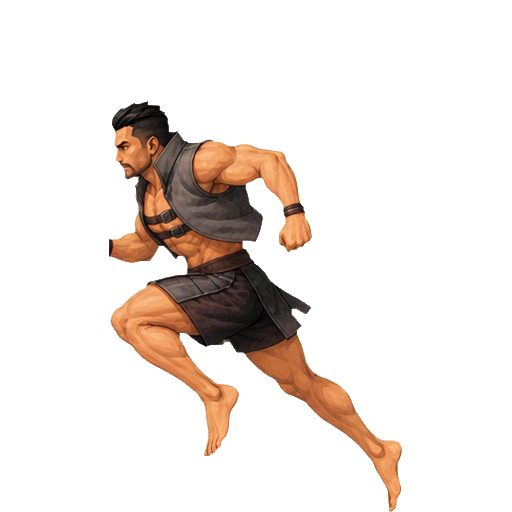
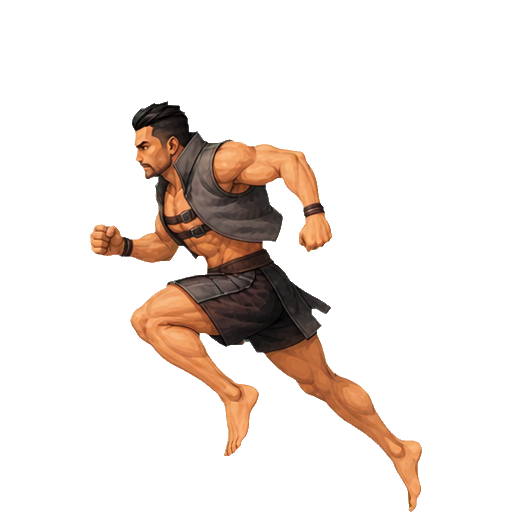
部分帧动画重新切图

Changed region(s): [[0.1562, 0.1875, 0.8438, 1.0]]

diff --git a/tools/recut_actor_common_m02_left.py b/tools/recut_actor_common_m02_left.py
@@ -1,0 +1,140 @@
+"""Recut the Actor Common M02 left-facing walk and sprint sheets by full pose.
+
+Unlike the original equal-cell splitter, this tool identifies the six complete
+alpha-connected character poses across each source sheet.  That prevents a limb
+which crosses a nominal cell boundary from being cut off or included in its
+neighbouring frame.
+"""
+
+from __future__ import annotations
+
+import hashlib
+import json
+import shutil
+from pathlib import Path
+
+import cv2
+import numpy as np
+from PIL import Image
+
+
+CHARACTER = "actor_common_m02"
+ROOT = Path("openspec/changes/produce-totem-art-assets/art/raw/characters") / CHARACTER
+ASSET_ROOT = Path("Assets/Game/Sprite/Actors/ActorCommonM02")
+FRAME_SIZE = 512
+ALPHA_THRESHOLD = 15
+SPECS = {"walk": 6, "sprint": 6}
+# The supplied sprint sheet has two small previous-pose residues attached to
+# its left edge. These rectangles are in their respective complete-pose crop
+# coordinates and do not overlap the intended silhouette.
+EDGE_RESIDUE_RECTS = {
+    ("sprint", 3): (0, 330, 24, 400),
+    ("sprint", 5): (0, 240, 24, 280),
+}
+
+
+def sha256(path: Path) -> str:
+    return hashlib.sha256(path.read_bytes()).hexdigest().upper()
+
+
+def complete_pose_bboxes(alpha: np.ndarray, expected_count: int) -> list[tuple[int, int, int, int, int]]:
+    mask = (alpha > ALPHA_THRESHOLD).astype(np.uint8)
+    count, _labels, stats, _centroids = cv2.connectedComponentsWithStats(mask, connectivity=8)
+    components = []
+    for index in range(1, count):
+        x, y, width, height, area = (int(value) for value in stats[index])
+        if area > 100:
+            components.append((x, y, width, height, area))
+
+    components.sort(key=lambda component: component[0])
+    if len(components) != expected_count:
+        raise RuntimeError(
+            f"Expected {expected_count} complete poses but found {len(components)}: {components}"
+        )
+    return components
+
+
+def retain_largest_component(image: np.ndarray) -> np.ndarray:
+    output = image.copy()
+    count, labels, stats, _centroids = cv2.connectedComponentsWithStats(
+        (output[:, :, 3] > ALPHA_THRESHOLD).astype(np.uint8), connectivity=8
+    )
+    if count <= 1:
+        raise RuntimeError("No pose foreground remains after resize")
+
+    keep = 1 + int(np.argmax(stats[1:, cv2.CC_STAT_AREA]))
+    output[labels != keep, 3] = 0
+    return output
+
+
+def remove_edge_residue(pose: np.ndarray, action: str, frame: int) -> np.ndarray:
+    residue = EDGE_RESIDUE_RECTS.get((action, frame))
+    if residue is None:
+        return pose
+
+    x0, y0, x1, y1 = residue
+    output = pose.copy()
+    output[y0:y1, x0:x1, 3] = 0
+    return output
+
+
+def recut_action(action: str, frame_count: int) -> list[dict]:
+    sheet_path = ROOT / f"{CHARACTER}_{action}_left_sheet.png"
+    sheet = np.array(Image.open(sheet_path).convert("RGBA"))
+    bboxes = complete_pose_bboxes(sheet[:, :, 3], frame_count)
+
+    max_width = max(bbox[2] for bbox in bboxes)
+    max_height = max(bbox[3] for bbox in bboxes)
+    scale = min(500 / max_width, 500 / max_height, 1.0)
+    rows = []
+    for frame, (x, y, width, height, area) in enumerate(bboxes, start=1):
+        pose = remove_edge_residue(sheet[y : y + height, x : x + width], action, frame)
+        output_width = max(1, round(width * scale))
+        output_height = max(1, round(height * scale))
+        if (output_width, output_height) != (width, height):
+            pose = np.array(
+                Image.fromarray(pose, "RGBA").resize((output_width, output_height), Image.Resampling.LANCZOS)
+            )
+        pose = retain_largest_component(pose)
+
+        canvas = np.zeros((FRAME_SIZE, FRAME_SIZE, 4), dtype=np.uint8)
+        destination_x = (FRAME_SIZE - output_width) // 2
+        destination_y = FRAME_SIZE - output_height
+        canvas[destination_y : destination_y + output_height, destination_x : destination_x + output_width] = pose
+
+        alpha = canvas[:, :, 3]
+        ys, xs = np.where(alpha > ALPHA_THRESHOLD)
+        if len(xs) == 0 or int(ys.max()) != FRAME_SIZE - 1:
+            raise RuntimeError(f"Invalid normalized pose for {action}/left/{frame:02d}")
+
+        file_name = f"{CHARACTER}_{action}_left_{frame:02d}.png"
+        raw_output = ROOT / file_name
+        asset_output = ASSET_ROOT / file_name
+        Image.fromarray(canvas, "RGBA").save(raw_output)
+        shutil.copyfile(raw_output, asset_output)
+        rows.append(
+            {
+                "frame": frame,
+                "source_pose_bbox": [x, y, width, height],
+                "source_pose_area": area,
+                "scale": scale,
+                "output": file_name,
+                "size": [FRAME_SIZE, FRAME_SIZE],
+                "baseline_y": int(ys.max()),
+                "sha256": sha256(raw_output),
+            }
+        )
+    return rows
+
+
+def main() -> None:
+    report = {"method": "whole-sheet alpha connected components", "actions": {}}
+    for action, frame_count in SPECS.items():
+        report["actions"][action] = recut_action(action, frame_count)
+    report_path = ROOT / f"{CHARACTER}_left_recut_validation.json"
+    report_path.write_text(json.dumps(report, ensure_ascii=False, indent=2) + "\n", encoding="utf-8")
+    print(f"Recut {sum(len(rows) for rows in report['actions'].values())} frames; report: {report_path}")
+
+
+if __name__ == "__main__":
+    main()
